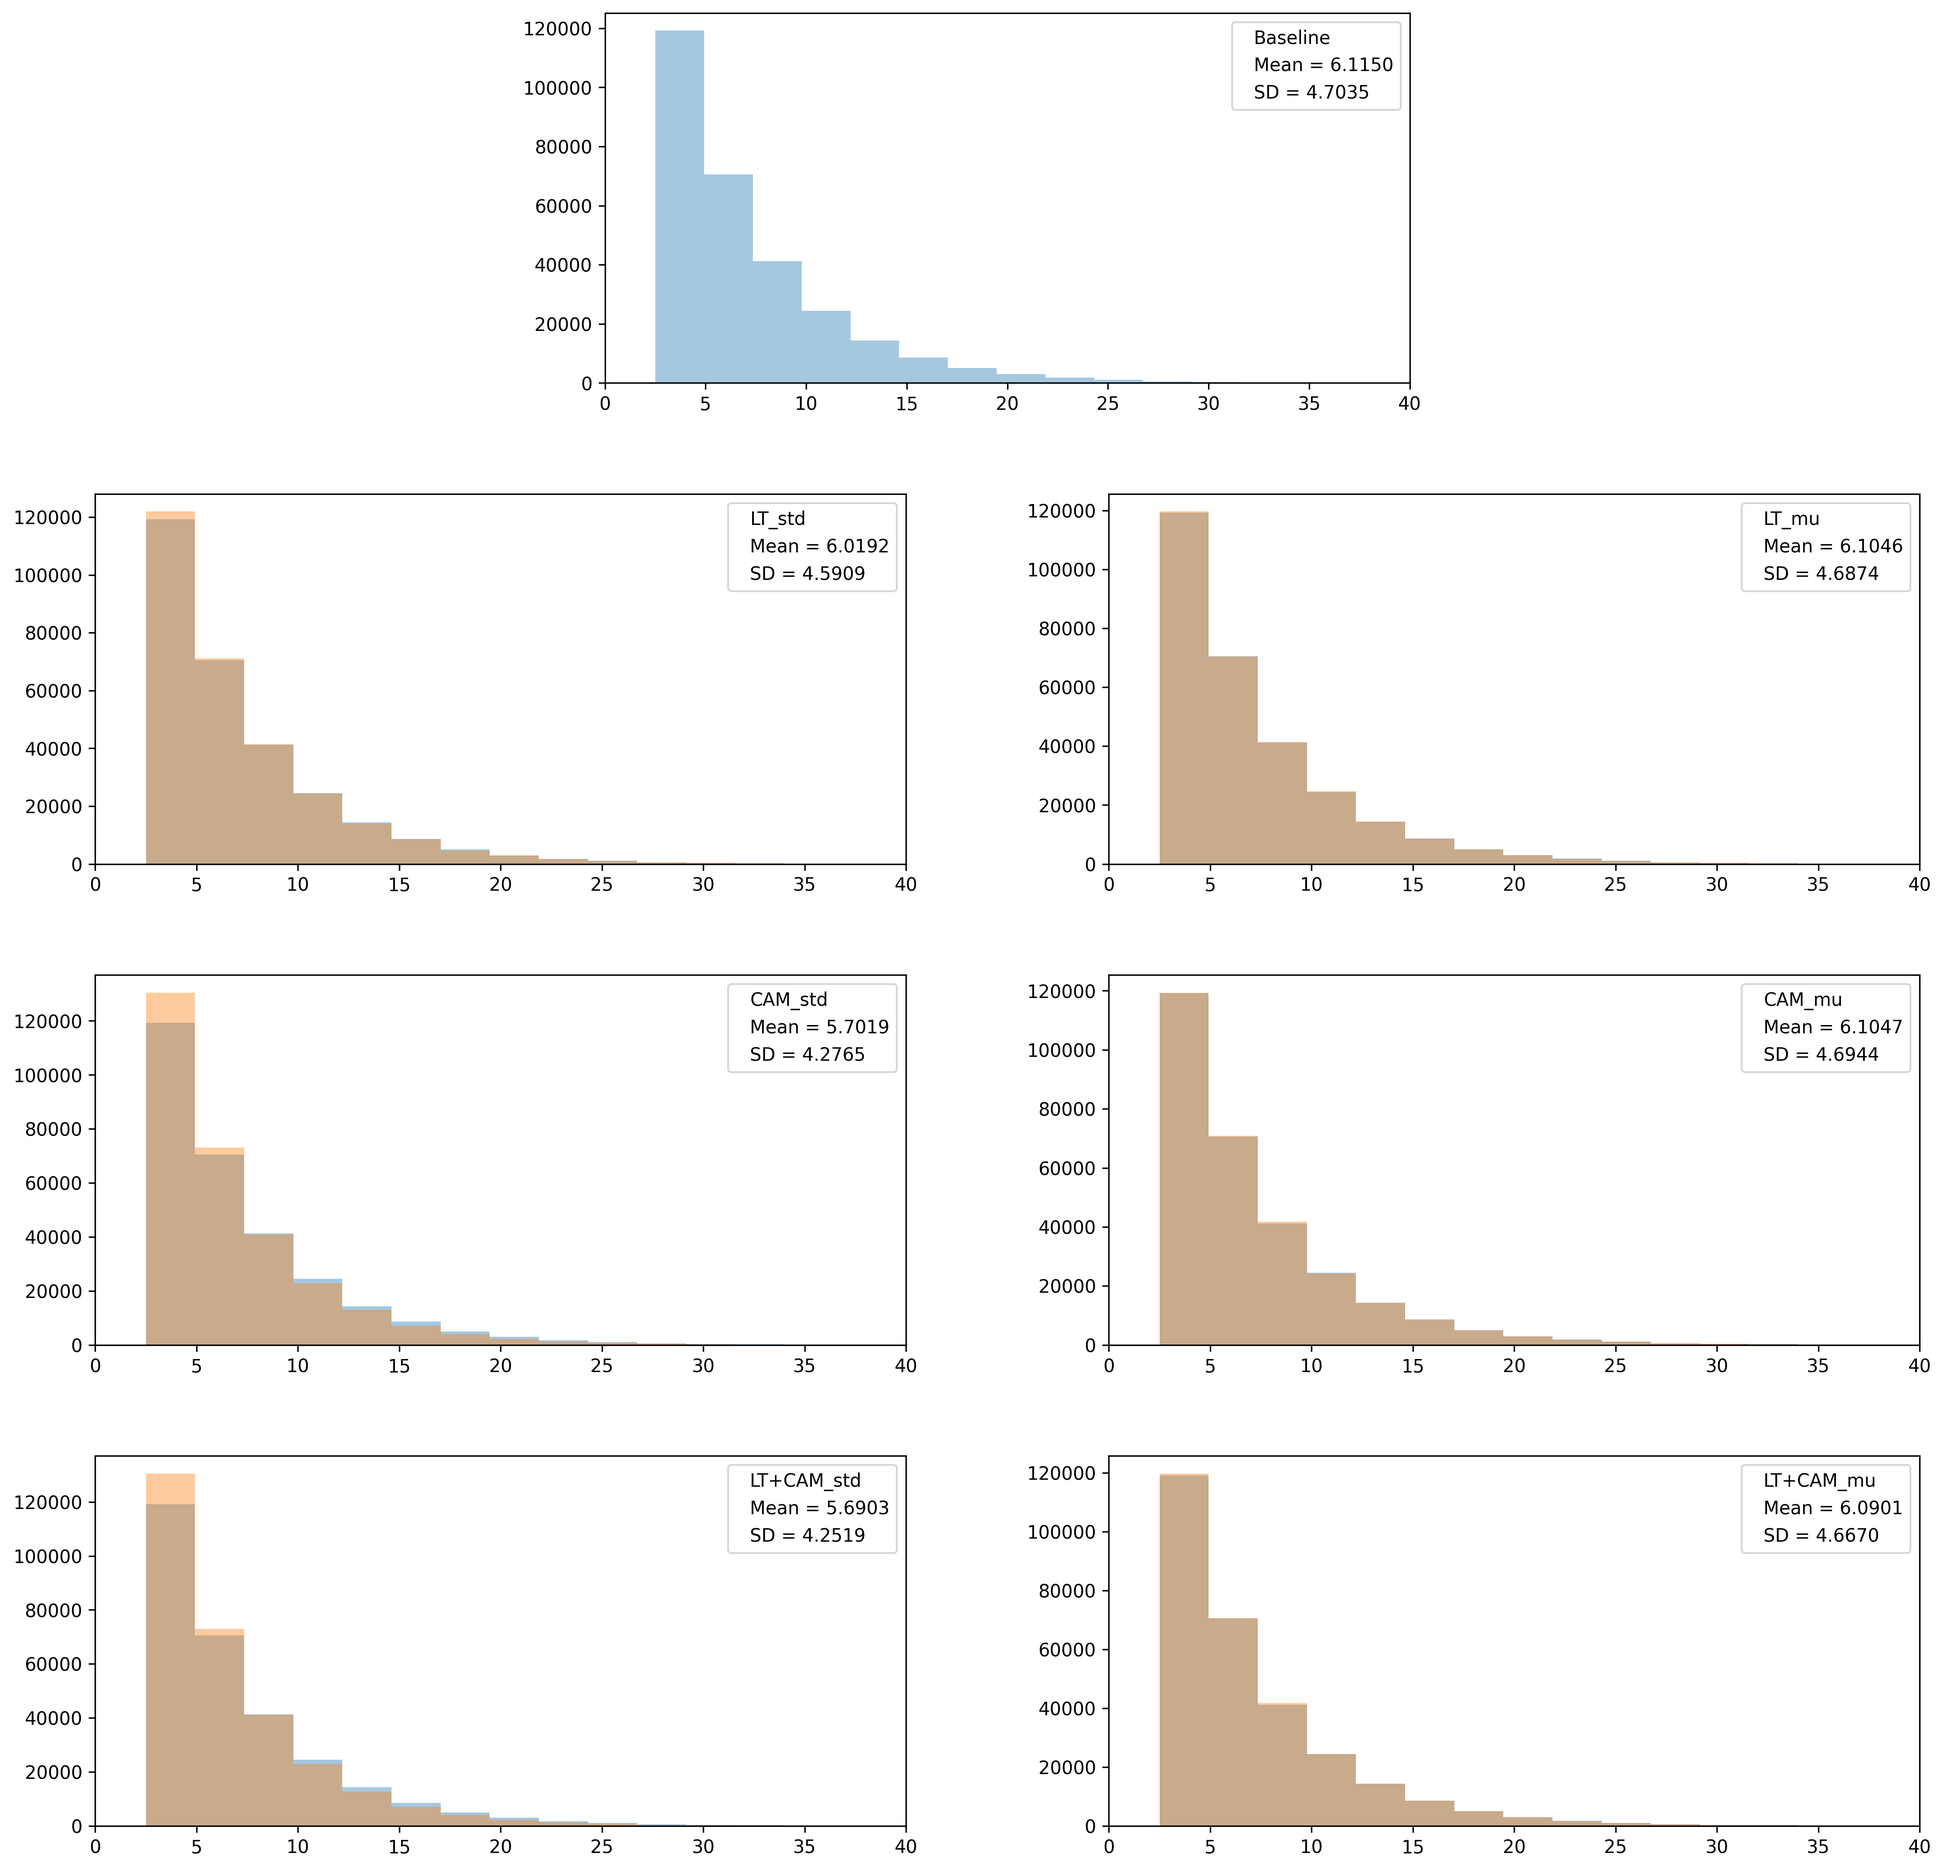
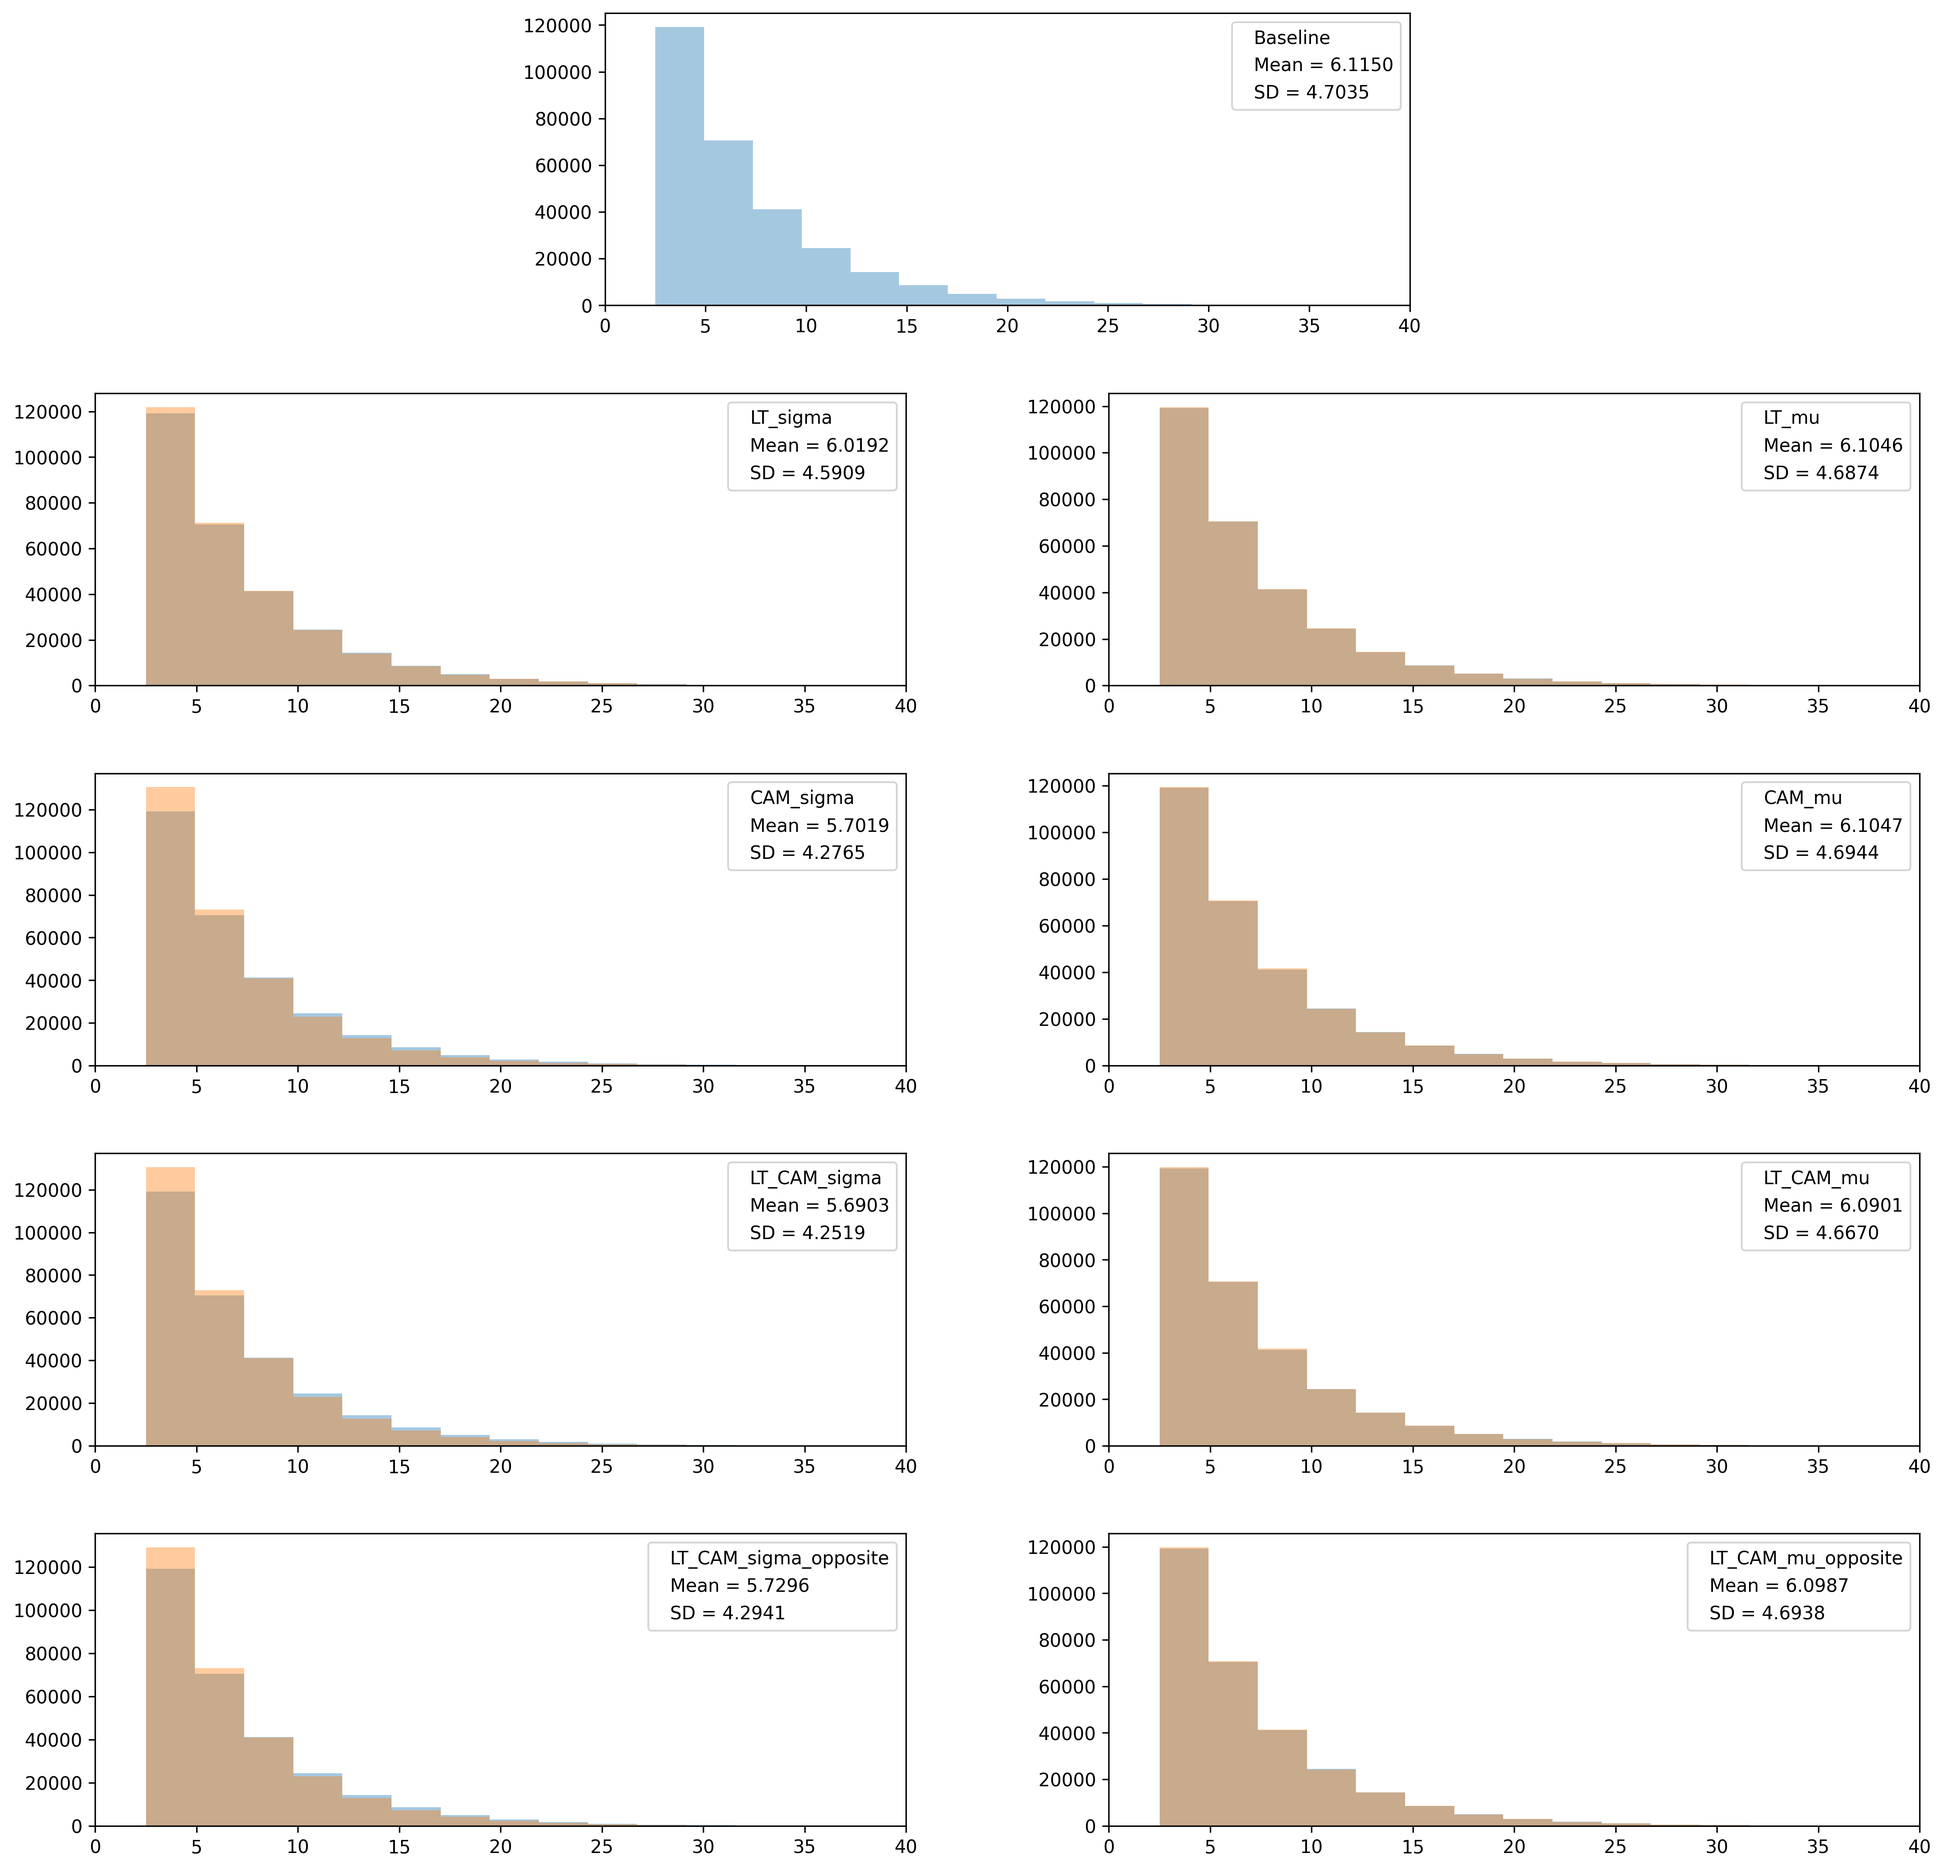
Update Gap Length Figures

diff --git a/Scripts/Model_ALL_General_Simulator_For_RW_Data_Processor.py b/Scripts/Model_ALL_General_Simulator_For_RW_Data_Processor.py
@@ -831,14 +831,17 @@ def plot_LT_CAM_gap_length_variations_ordered(bins=100):
     baseline = extract_gap(baseline_df)
 
     cases = [
-        ("LT_std", os.path.join(save_dir, "LT_shifted_sigma_spacing_data.csv")),
+        ("LT_sigma", os.path.join(save_dir, "LT_shifted_sigma_spacing_data.csv")),
         ("LT_mu", os.path.join(save_dir, "LT_shifted_mu_spacing_data.csv")),
 
-        ("CAM_std", os.path.join(save_dir, "CAM_shifted_sigma_spacing_data.csv")),
+        ("CAM_sigma", os.path.join(save_dir, "CAM_shifted_sigma_spacing_data.csv")),
         ("CAM_mu", os.path.join(save_dir, "CAM_shifted_mu_spacing_data.csv")),
 
-        ("LT+CAM_std", os.path.join(save_dir, "LT_CAM_shifted_sigma_spacing_data.csv")),
-        ("LT+CAM_mu", os.path.join(save_dir, "LT_CAM_shifted_mu_spacing_data.csv")),
+        ("LT_CAM_sigma", os.path.join(save_dir, "LT_CAM_shifted_sigma_spacing_data.csv")),
+        ("LT_CAM_mu", os.path.join(save_dir, "LT_CAM_shifted_mu_spacing_data.csv")),
+
+        ("LT_CAM_sigma_opposite", os.path.join(save_dir, "LT_CAM_opposite_shifted_sigma_spacing_data.csv")),
+        ("LT_CAM_mu_opposite", os.path.join(save_dir, "LT_CAM_opposite_shifted_mu_spacing_data.csv")),
     ]
 
     loaded_cases, all_data = [], [baseline]
@@ -855,14 +858,14 @@ def plot_LT_CAM_gap_length_variations_ordered(bins=100):
     bin_edges = np.linspace(x_min, x_max, bins + 1)
 
     fig = plt.figure(figsize=(18, 18))
-    outer = fig.add_gridspec(4, 1, hspace=0.3)
+    outer = fig.add_gridspec(5, 1, hspace=0.3)
 
     axes = []
 
     top = outer[0].subgridspec(1, 3, width_ratios=[1, 2, 1])
     axes.append(fig.add_subplot(top[0, 1]))
 
-    for r in range(1, 4):
+    for r in range(1, 5):
         inner = outer[r].subgridspec(1, 2, wspace=0.25)
         axes.append(fig.add_subplot(inner[0, 0]))
         axes.append(fig.add_subplot(inner[0, 1]))
@@ -912,14 +915,17 @@ def plot_LLSB_LLSA_gap_length_variations_ordered(bins=100):
     baseline = extract_gap(pd.read_csv(baseline_file))
 
     cases = [
-        ("LLSA_std", os.path.join(save_dir, "LLSA_shifted_sigma_spacing_data.csv")),
+        ("LLSA_sigma", os.path.join(save_dir, "LLSA_shifted_sigma_spacing_data.csv")),
         ("LLSA_mu", os.path.join(save_dir, "LLSA_shifted_mu_spacing_data.csv")),
 
-        ("LLSB_std", os.path.join(save_dir, "LLSB_shifted_sigma_spacing_data.csv")),
+        ("LLSB_sigma", os.path.join(save_dir, "LLSB_shifted_sigma_spacing_data.csv")),
         ("LLSB_mu", os.path.join(save_dir, "LLSB_shifted_mu_spacing_data.csv")),
 
-        ("LLSB+LLSA_std", os.path.join(save_dir, "LLSB_LLSA_shifted_sigma_spacing_data.csv")),
-        ("LLSB+LLSA_mu", os.path.join(save_dir, "LLSB_LLSA_shifted_mu_spacing_data.csv")),
+        ("LLSB_LLSA_sigma", os.path.join(save_dir, "LLSB_LLSA_shifted_sigma_spacing_data.csv")),
+        ("LLSB_LLSA_mu", os.path.join(save_dir, "LLSB_LLSA_shifted_mu_spacing_data.csv")),
+
+        ("LLSB_LLSA_sigma_opposite", os.path.join(save_dir, "LLSB_LLSA_opposite_shifted_sigma_spacing_data.csv")),
+        ("LLSB_LLSA_mu_opposite", os.path.join(save_dir, "LLSB_LLSA_opposite_shifted_mu_spacing_data.csv")),
     ]
 
     loaded_cases, all_data = [], [baseline]
@@ -933,15 +939,15 @@ def plot_LLSB_LLSA_gap_length_variations_ordered(bins=100):
     bin_edges = np.linspace(np.min(all_data), np.max(all_data), bins + 1)
 
     fig = plt.figure(figsize=(18, 18))
-    outer = fig.add_gridspec(4, 1, hspace=0.3)
+    outer = fig.add_gridspec(5, 1, hspace=0.3)
 
     axes = []
 
     top = outer[0].subgridspec(1, 3, width_ratios=[1, 2, 1])
     axes.append(fig.add_subplot(top[0, 1]))
 
-    for r in range(1, 4):
-        inner = outer[r].subgridspec(1, 2)
+    for r in range(1, 5):
+        inner = outer[r].subgridspec(1, 2, wspace=0.25)
         axes.append(fig.add_subplot(inner[0, 0]))
         axes.append(fig.add_subplot(inner[0, 1]))
 
@@ -1049,9 +1055,9 @@ if __name__ == "__main__":
     # plot_LT_CAM_spacing_variations_ordered(bins=100)
     # plot_LLSB_LLSA_spacing_variations_ordered(bins=100)
     # plot_baseline_vs_all_spacing_variations_ordered(bins=100)
-    plot_LT_CAM_gap_length_variations_ordered(bins=150)
-    plot_LLSB_LLSA_gap_length_variations_ordered(bins=150)
-    plot_baseline_vs_all_gap_length_variations_ordered(bins=150)
+    # plot_LT_CAM_gap_length_variations_ordered(bins=150)
+    # plot_LLSB_LLSA_gap_length_variations_ordered(bins=150)
+    # plot_baseline_vs_all_gap_length_variations_ordered(bins=150)
 
     # compute_baseline_spacing()
     # KDE_spacing_from_normals(params_test, runs=100, sensor_type="ALL", distribution_parameter="both") # GENERATES ONE DATA SET BASED ON PARAMS_TEST
@@ -1059,5 +1065,3 @@ if __name__ == "__main__":
 
     # plot_spacing_distribution("Cached Data/Normal Distribution Variations/LT_shifted_mu_spacing_data.csv")
     # plot_gap_length_distribution("Cached Data/Normal Distribution Variations/LT_shifted_mu_spacing_data.csv")
-    # plot_all_spacing_variations(bins=100) # Takes a minute
-    # plot_all_gap_length_variations(bins=30) # Takes a minute

diff --git a/Scripts/Model_ALL_General_Simulator_For_RS_Data_Processor.py b/Scripts/Model_ALL_General_Simulator_For_RS_Data_Processor.py
@@ -876,14 +876,17 @@ def plot_LT_CAM_gap_length_variations_ordered(bins=100):
     baseline = extract_gap(baseline_df)
 
     cases = [
-        ("LT_std", os.path.join(save_dir, "LT_RS_shifted_sigma_spacing_data.csv")),
+        ("LT_sigma", os.path.join(save_dir, "LT_RS_shifted_sigma_spacing_data.csv")),
         ("LT_mu", os.path.join(save_dir, "LT_RS_shifted_mu_spacing_data.csv")),
 
-        ("CAM_std", os.path.join(save_dir, "CAM_RS_shifted_sigma_spacing_data.csv")),
+        ("CAM_sigma", os.path.join(save_dir, "CAM_RS_shifted_sigma_spacing_data.csv")),
         ("CAM_mu", os.path.join(save_dir, "CAM_RS_shifted_mu_spacing_data.csv")),
 
-        ("LT+CAM_std", os.path.join(save_dir, "LT_CAM_RS_shifted_sigma_spacing_data.csv")),
-        ("LT+CAM_mu", os.path.join(save_dir, "LT_CAM_RS_shifted_mu_spacing_data.csv")),
+        ("LT_CAM_sigma", os.path.join(save_dir, "LT_CAM_RS_shifted_sigma_spacing_data.csv")),
+        ("LT_CAM_mu", os.path.join(save_dir, "LT_CAM_RS_shifted_mu_spacing_data.csv")),
+
+        ("LT_CAM_sigma_opposite", os.path.join(save_dir, "LT_CAM_RS_opposite_shifted_sigma_spacing_data.csv")),
+        ("LT_CAM_mu_opposite", os.path.join(save_dir, "LT_CAM_RS_opposite_shifted_mu_spacing_data.csv")),
     ]
 
     loaded_cases, all_data = [], [baseline]
@@ -900,14 +903,14 @@ def plot_LT_CAM_gap_length_variations_ordered(bins=100):
     bin_edges = np.linspace(x_min, x_max, bins + 1)
 
     fig = plt.figure(figsize=(18, 18))
-    outer = fig.add_gridspec(4, 1, hspace=0.3)
+    outer = fig.add_gridspec(5, 1, hspace=0.3)
 
     axes = []
 
     top = outer[0].subgridspec(1, 3, width_ratios=[1, 2, 1])
     axes.append(fig.add_subplot(top[0, 1]))
 
-    for r in range(1, 4):
+    for r in range(1, 5):
         inner = outer[r].subgridspec(1, 2, wspace=0.25)
         axes.append(fig.add_subplot(inner[0, 0]))
         axes.append(fig.add_subplot(inner[0, 1]))
@@ -957,14 +960,17 @@ def plot_LLSB_LLSA_gap_length_variations_ordered(bins=100):
     baseline = extract_gap(pd.read_csv(baseline_file))
 
     cases = [
-        ("LLSA_std", os.path.join(save_dir, "LLSA_RS_shifted_sigma_spacing_data.csv")),
+        ("LLSA_sigma", os.path.join(save_dir, "LLSA_RS_shifted_sigma_spacing_data.csv")),
         ("LLSA_mu", os.path.join(save_dir, "LLSA_RS_shifted_mu_spacing_data.csv")),
 
-        ("LLSB_std", os.path.join(save_dir, "LLSB_RS_shifted_sigma_spacing_data.csv")),
+        ("LLSB_sigma", os.path.join(save_dir, "LLSB_RS_shifted_sigma_spacing_data.csv")),
         ("LLSB_mu", os.path.join(save_dir, "LLSB_RS_shifted_mu_spacing_data.csv")),
 
-        ("LLSB+LLSA_std", os.path.join(save_dir, "LLSB_LLSA_RS_shifted_sigma_spacing_data.csv")),
-        ("LLSB+LLSA_mu", os.path.join(save_dir, "LLSB_LLSA_RS_shifted_mu_spacing_data.csv")),
+        ("LLSB_LLSA_sigma", os.path.join(save_dir, "LLSB_LLSA_RS_shifted_sigma_spacing_data.csv")),
+        ("LLSB_LLSA_mu", os.path.join(save_dir, "LLSB_LLSA_RS_shifted_mu_spacing_data.csv")),
+
+        ("LLSB_LLSA_sigma_opposite", os.path.join(save_dir, "LLSB_LLSA_RS_opposite_shifted_sigma_spacing_data.csv")),
+        ("LLSB_LLSA_mu_opposite", os.path.join(save_dir, "LLSB_LLSA_RS_opposite_shifted_mu_spacing_data.csv")),
     ]
 
     loaded_cases, all_data = [], [baseline]
@@ -978,14 +984,14 @@ def plot_LLSB_LLSA_gap_length_variations_ordered(bins=100):
     bin_edges = np.linspace(np.min(all_data), np.max(all_data), bins + 1)
 
     fig = plt.figure(figsize=(18, 18))
-    outer = fig.add_gridspec(4, 1, hspace=0.3)
+    outer = fig.add_gridspec(5, 1, hspace=0.3)
 
     axes = []
 
     top = outer[0].subgridspec(1, 3, width_ratios=[1, 2, 1])
     axes.append(fig.add_subplot(top[0, 1]))
 
-    for r in range(1, 4):
+    for r in range(1, 5):
         inner = outer[r].subgridspec(1, 2)
         axes.append(fig.add_subplot(inner[0, 0]))
         axes.append(fig.add_subplot(inner[0, 1]))
@@ -1079,12 +1085,6 @@ if __name__ == "__main__":
         set_start_method("spawn", force=True)
     except RuntimeError:
         pass
-
-    params_test = {
-        "LT": (-0.08, 0.06),
-        "CAM": (-0.08, 0.06),
-        "LLSB": (-0.08, 0.12),
-        "LLSA": (-0.08, 0.06)}
     
     # --------------------------------------------------
     # Run this ONCE if the opposite LT+CAM or LLSA/LLSB files do not exist yet
@@ -1100,7 +1100,7 @@ if __name__ == "__main__":
     # plot_baseline_vs_all_spacing_variations_ordered(bins=100)
     # plot_LT_CAM_gap_length_variations_ordered(bins=30)
     # plot_LLSB_LLSA_gap_length_variations_ordered(bins=30)
-    plot_baseline_vs_all_gap_length_variations_ordered(bins=18)
+    # plot_baseline_vs_all_gap_length_variations_ordered(bins=18)
 
     # compute_baseline_spacing() # Takes 30 min
     # KDE_spacing_from_normals(params_test, runs=100, sensor_type="LLSB", distribution_parameter="sigma") # Takes 4 min
